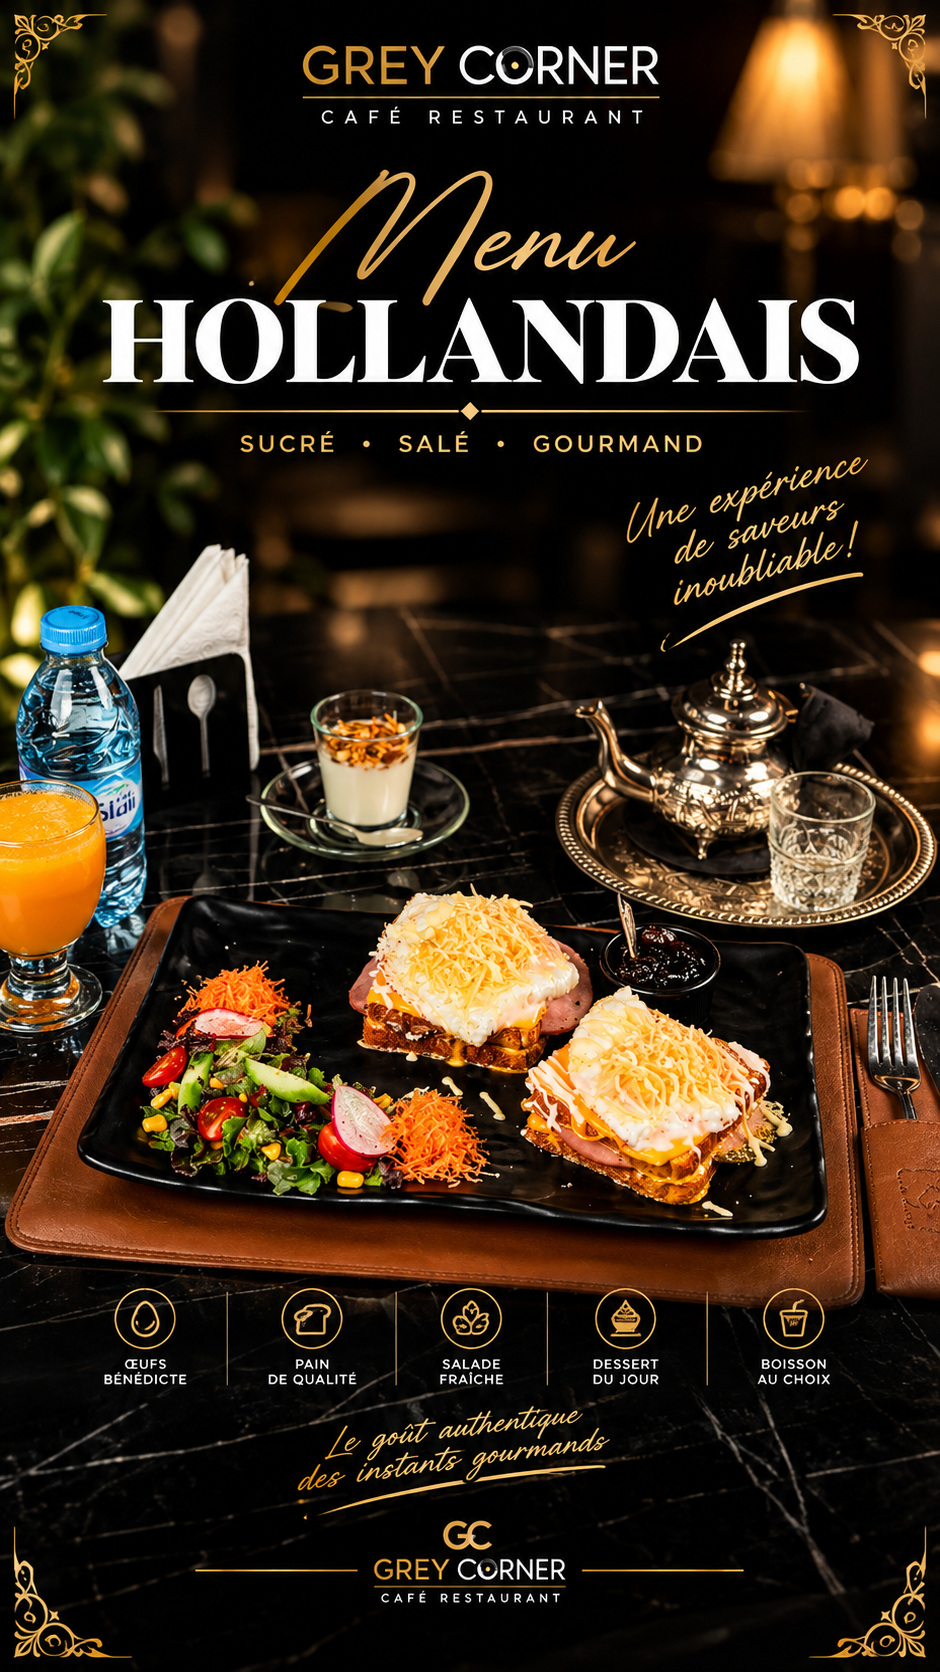
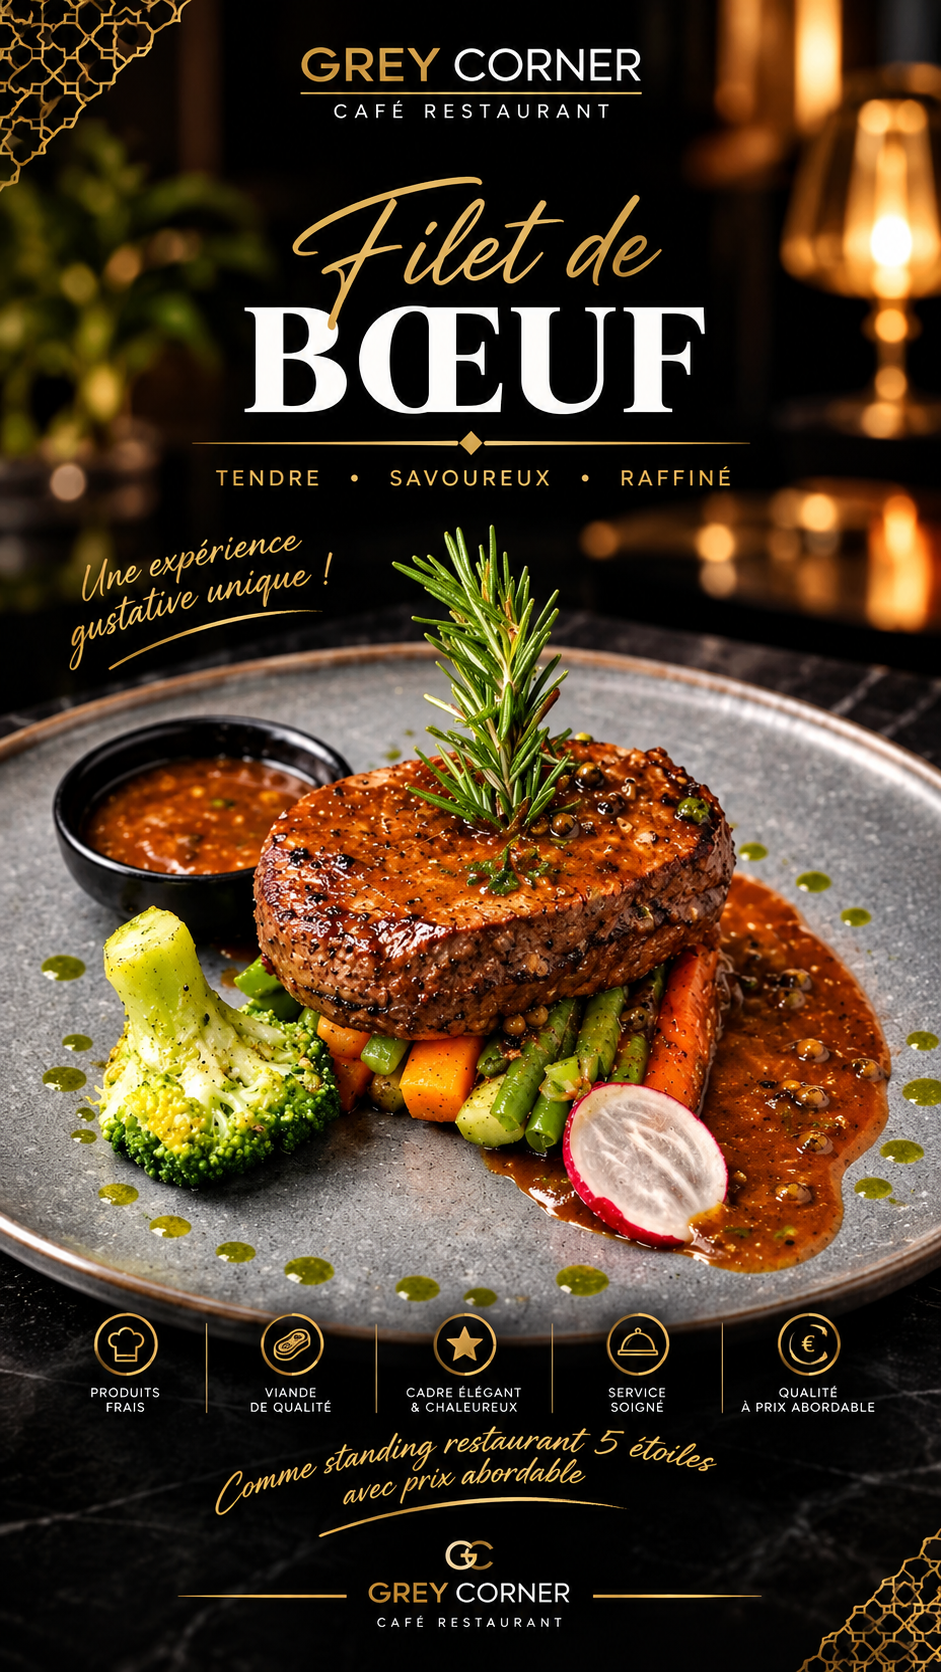
feat: support default Supabase credentials in Config

diff --git a/js/supabase-client.js b/js/supabase-client.js
@@ -280,8 +280,8 @@ const DataService = {
    * Initialisation du service de données
    */
   async init() {
-    const url = localStorage.getItem(Config.STORAGE_KEYS.SUPABASE_URL);
-    const key = localStorage.getItem(Config.STORAGE_KEYS.SUPABASE_KEY);
+    const url = localStorage.getItem(Config.STORAGE_KEYS.SUPABASE_URL) || Config.DEFAULT_SUPABASE_URL;
+    const key = localStorage.getItem(Config.STORAGE_KEYS.SUPABASE_KEY) || Config.DEFAULT_SUPABASE_KEY;
 
     if (url && key && window.supabase) {
       try {
@@ -541,8 +541,8 @@ const DataService = {
 
   getCredentials() {
     return {
-      url: localStorage.getItem(Config.STORAGE_KEYS.SUPABASE_URL) || '',
-      key: localStorage.getItem(Config.STORAGE_KEYS.SUPABASE_KEY) || ''
+      url: localStorage.getItem(Config.STORAGE_KEYS.SUPABASE_URL) || Config.DEFAULT_SUPABASE_URL || '',
+      key: localStorage.getItem(Config.STORAGE_KEYS.SUPABASE_KEY) || Config.DEFAULT_SUPABASE_KEY || ''
     };
   },
 

diff --git a/js/config.js b/js/config.js
@@ -14,6 +14,10 @@ const Config = {
     APP_MODE: 'gc_insta_app_mode' // 'supabase' ou 'demo'
   },
 
+  // Identifiants Supabase par défaut (peuvent être renseignés ici ou dans l'interface)
+  DEFAULT_SUPABASE_URL: '',
+  DEFAULT_SUPABASE_KEY: '',
+
   // Les 4 créneaux obligatoires fixes de chaque semaine
   WEEKLY_TEMPLATE: [
     {
